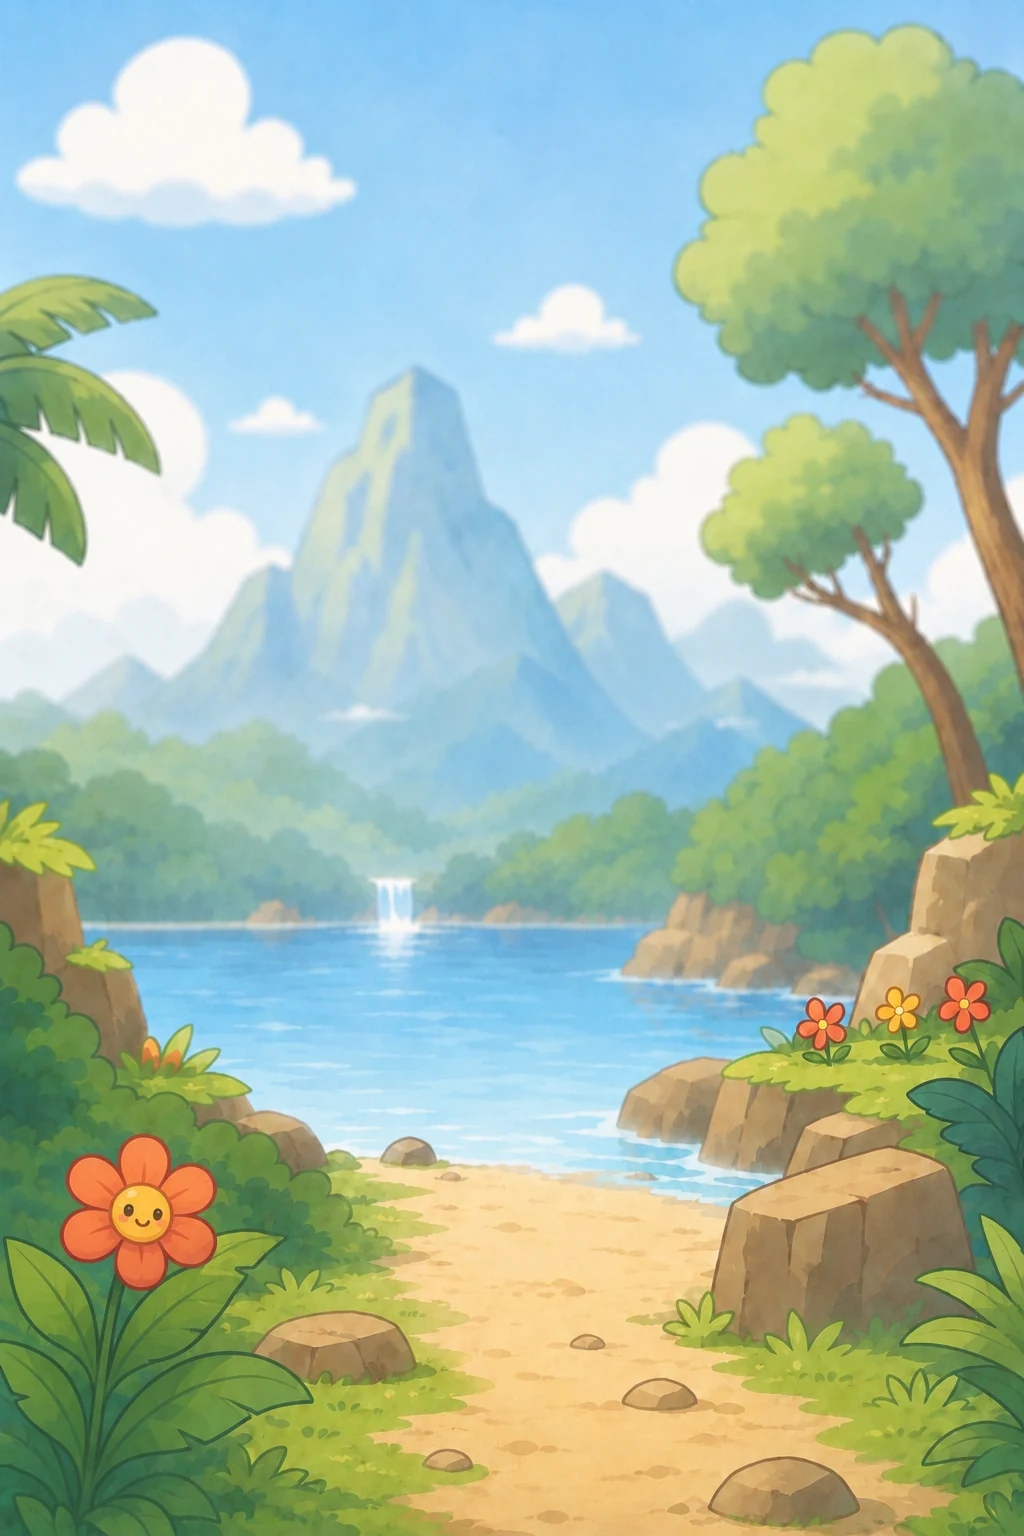
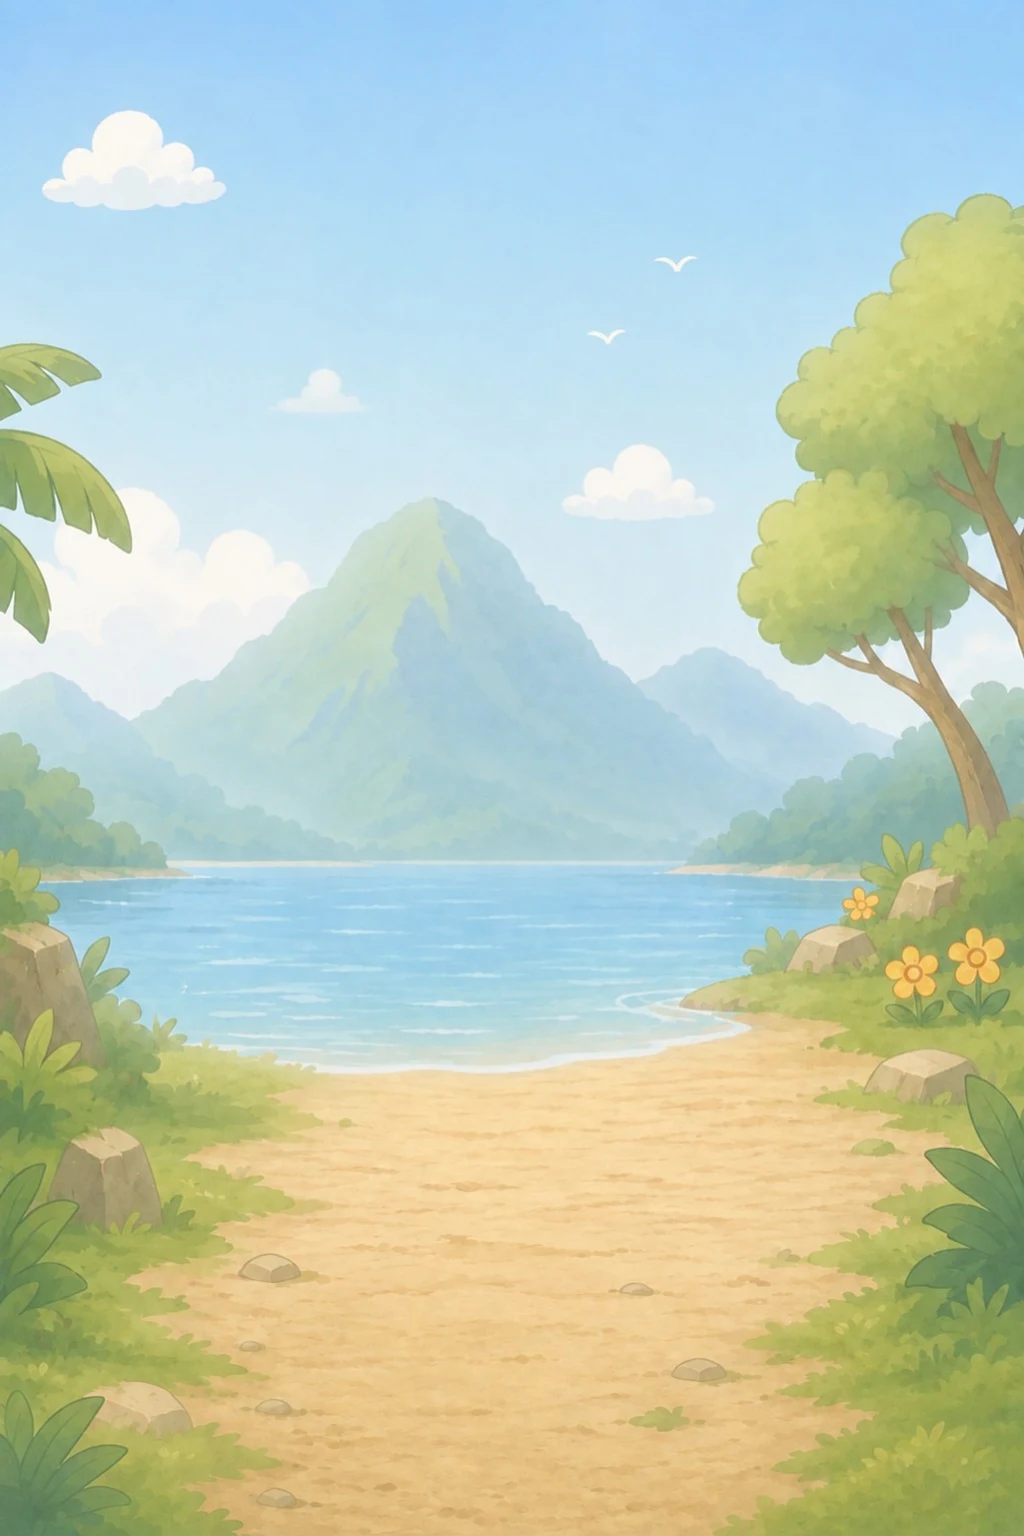
feat(stage): 탐험 모드 무대 기본 배경을 산·호수·모래사장 그림으로 교체
사용자가 준 새 원화로 갈아 끼웠다.
- public/assets/stage-adventure-meadow.webp (1024×1536, webp q88 79KB)
- 원화는 art-src/bg-adventure-meadow-v2-src.webp 로 보관, 구버전 원본은 삭제
  (CLAUDE.md 5·6)
- 파일명·상수명(ADV_STAGE_BG_MEADOW)은 그대로 둔다 — 경로를 바꾸면 이미 받아 둔
  캐시와 다른 참조가 함께 흔들린다. 주석에 지금 그림이 무엇인지 적어 뒀다.

검증: vite build 통과, 실제 홈 화면(남아·여아)에서 캐릭터가 모래길 위에 서고
호수 수평선이 캐릭터 뒤로 지나가는 것 확인.

Claude-Session: https://claude.ai/code/session_018maNuYqDfFyRSe9uKpZhPR

diff --git a/src/data/characters.js b/src/data/characters.js
@@ -23,9 +23,12 @@ export const BAKERY_CHAR_SIZE={1:232,2:248,3:264,4:270,5:282}; // 시안B 동일
 
 // ── 탐험 모드 무대 기본 배경 ────────────────────────────────
 // 이미지는 Capacitor public/assets 폴더에 두고 경로로 참조 (base64 임베드 X → App.jsx 경량 유지).
-// 지금은 초원 1장. 나중에 성별/진화단계별로 늘릴 땐 ADV_STAGE_BG_OF 안만 바꾸면 됨.
+// 지금은 1장. 나중에 성별/진화단계별로 늘릴 땐 ADV_STAGE_BG_OF 안만 바꾸면 됨.
+// [사용자 확정 2026-08-03] 그림 교체 — 산·호수·모래사장 풍경.
+//   (파일명·상수명은 예전 초원 그림 때 지은 이름 그대로 둔다. 경로가 바뀌면 이미 받아 둔
+//    캐시·다른 참조가 함께 흔들리므로, 이름은 유지하고 그림만 갈아 끼운다.)
 export const ADV_STAGE_BG_MEADOW = "/assets/stage-adventure-meadow.webp";
-// (g=성별 'boy'|'girl', stage=진화단계 1~5) → 배경 경로. 지금은 항상 초원.
+// (g=성별 'boy'|'girl', stage=진화단계 1~5) → 배경 경로. 지금은 항상 같은 1장.
 export const ADV_STAGE_BG_OF = (g, stage) => ADV_STAGE_BG_MEADOW;
 // 프리로드 대상 목록 (아래 이미지 프리로드 useEffect에서 사용)
 export const ADV_STAGE_BG_ALL = [ADV_STAGE_BG_MEADOW];

diff --git a/art-src/README.md b/art-src/README.md
@@ -207,3 +207,4 @@ halo가 외곽선을 흐려서 생긴 착시였다.
 | expedition/ride/sandboard-src.webp | 탑승 원화 28 모래 보드 — 사막 변형 (탈것+앉은 캐릭터 한 장, halo 보정 후 탑재) | expedition/ride/sandboard.webp |
 | expedition/ride/submarine-src.webp | 탑승 원화 32 잠수정 — 바다 변형 (탈것+앉은 캐릭터 한 장, halo 보정 후 탑재) | expedition/ride/submarine.webp |
 | expedition/char/common-run-src.webp | 탐험 씬 달리기 포즈 (초원 전용 — 이동 속도도 조금 빠르게, halo 보정 후 탑재) | expedition/char/common-run.webp |
+| bg-adventure-meadow-v2-src.webp | 탐험 모드 무대 기본 배경 v2 (1022×1536 = 2:3 — 산·호수·모래사장, 현행) | stage-adventure-meadow.webp |
